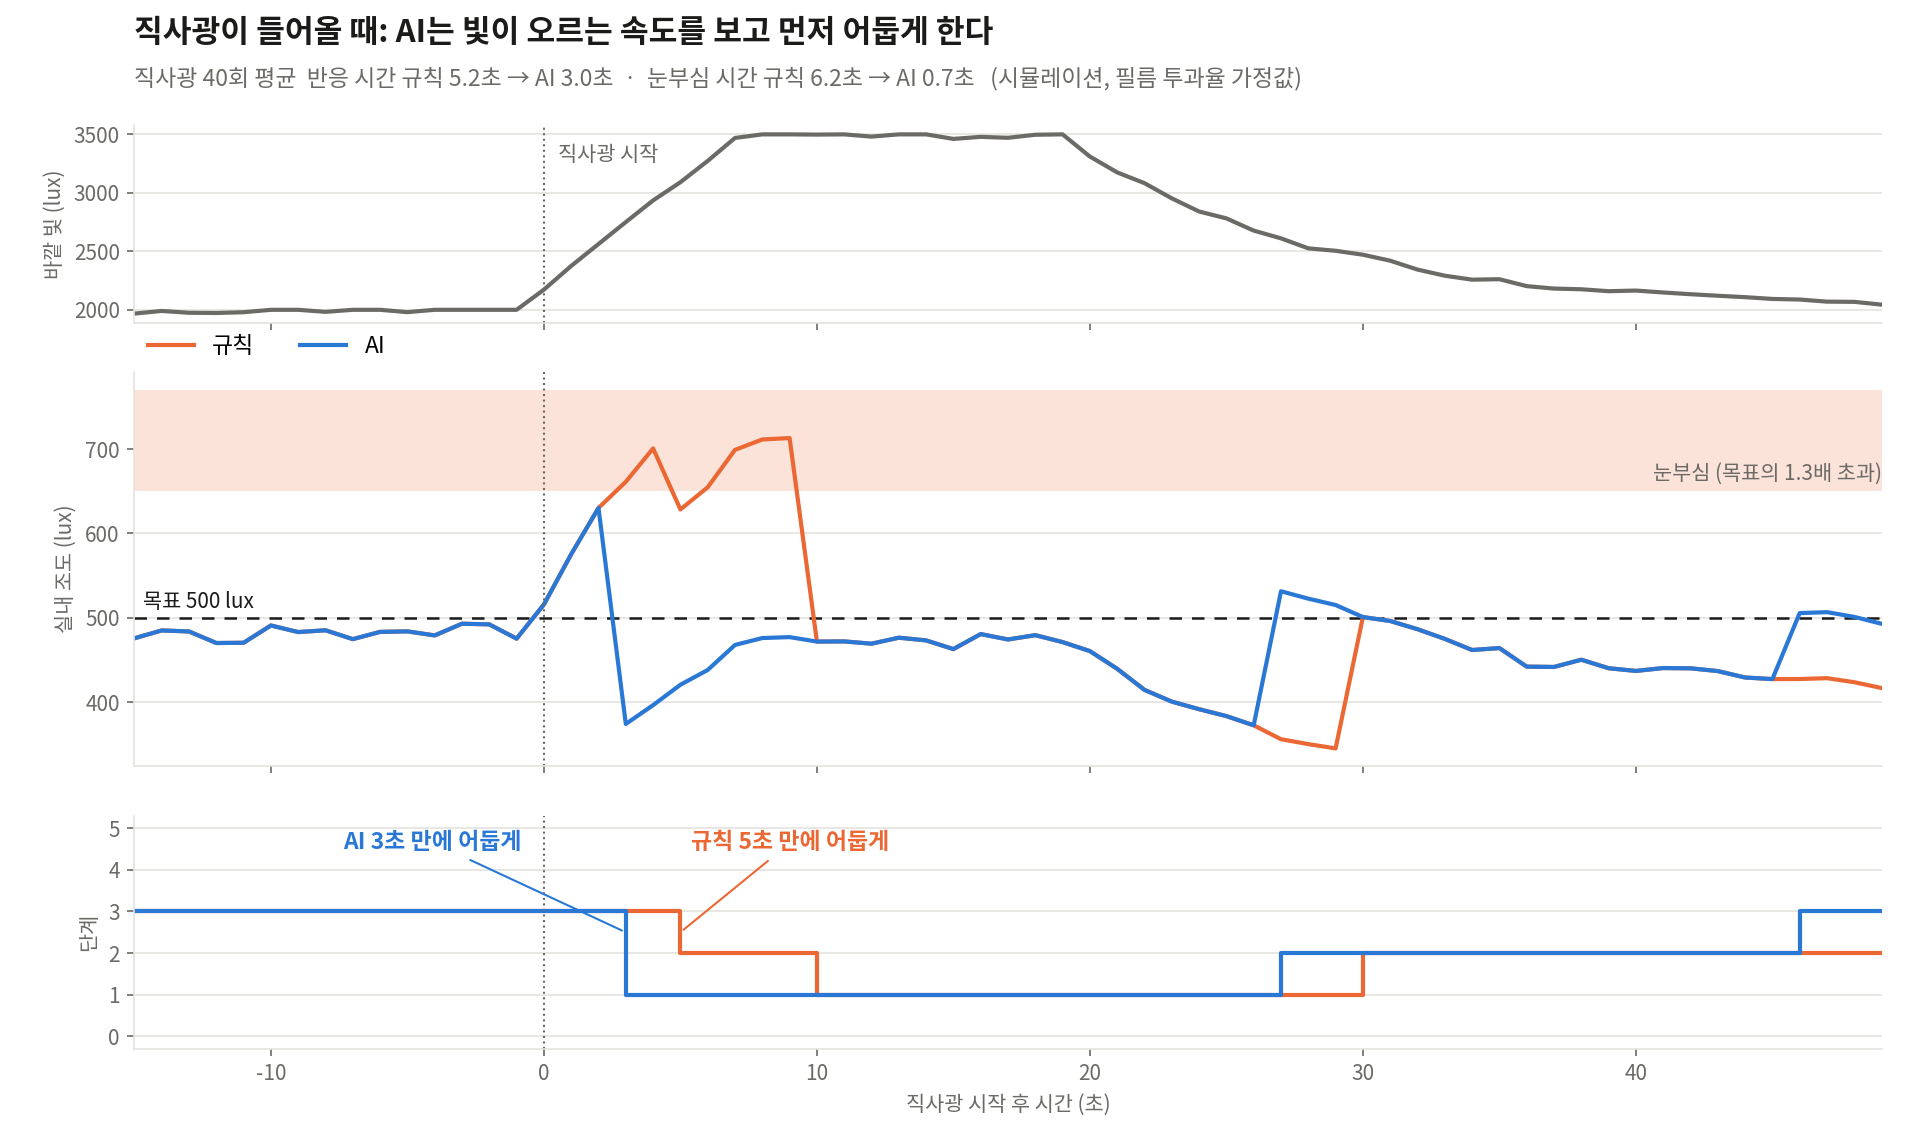
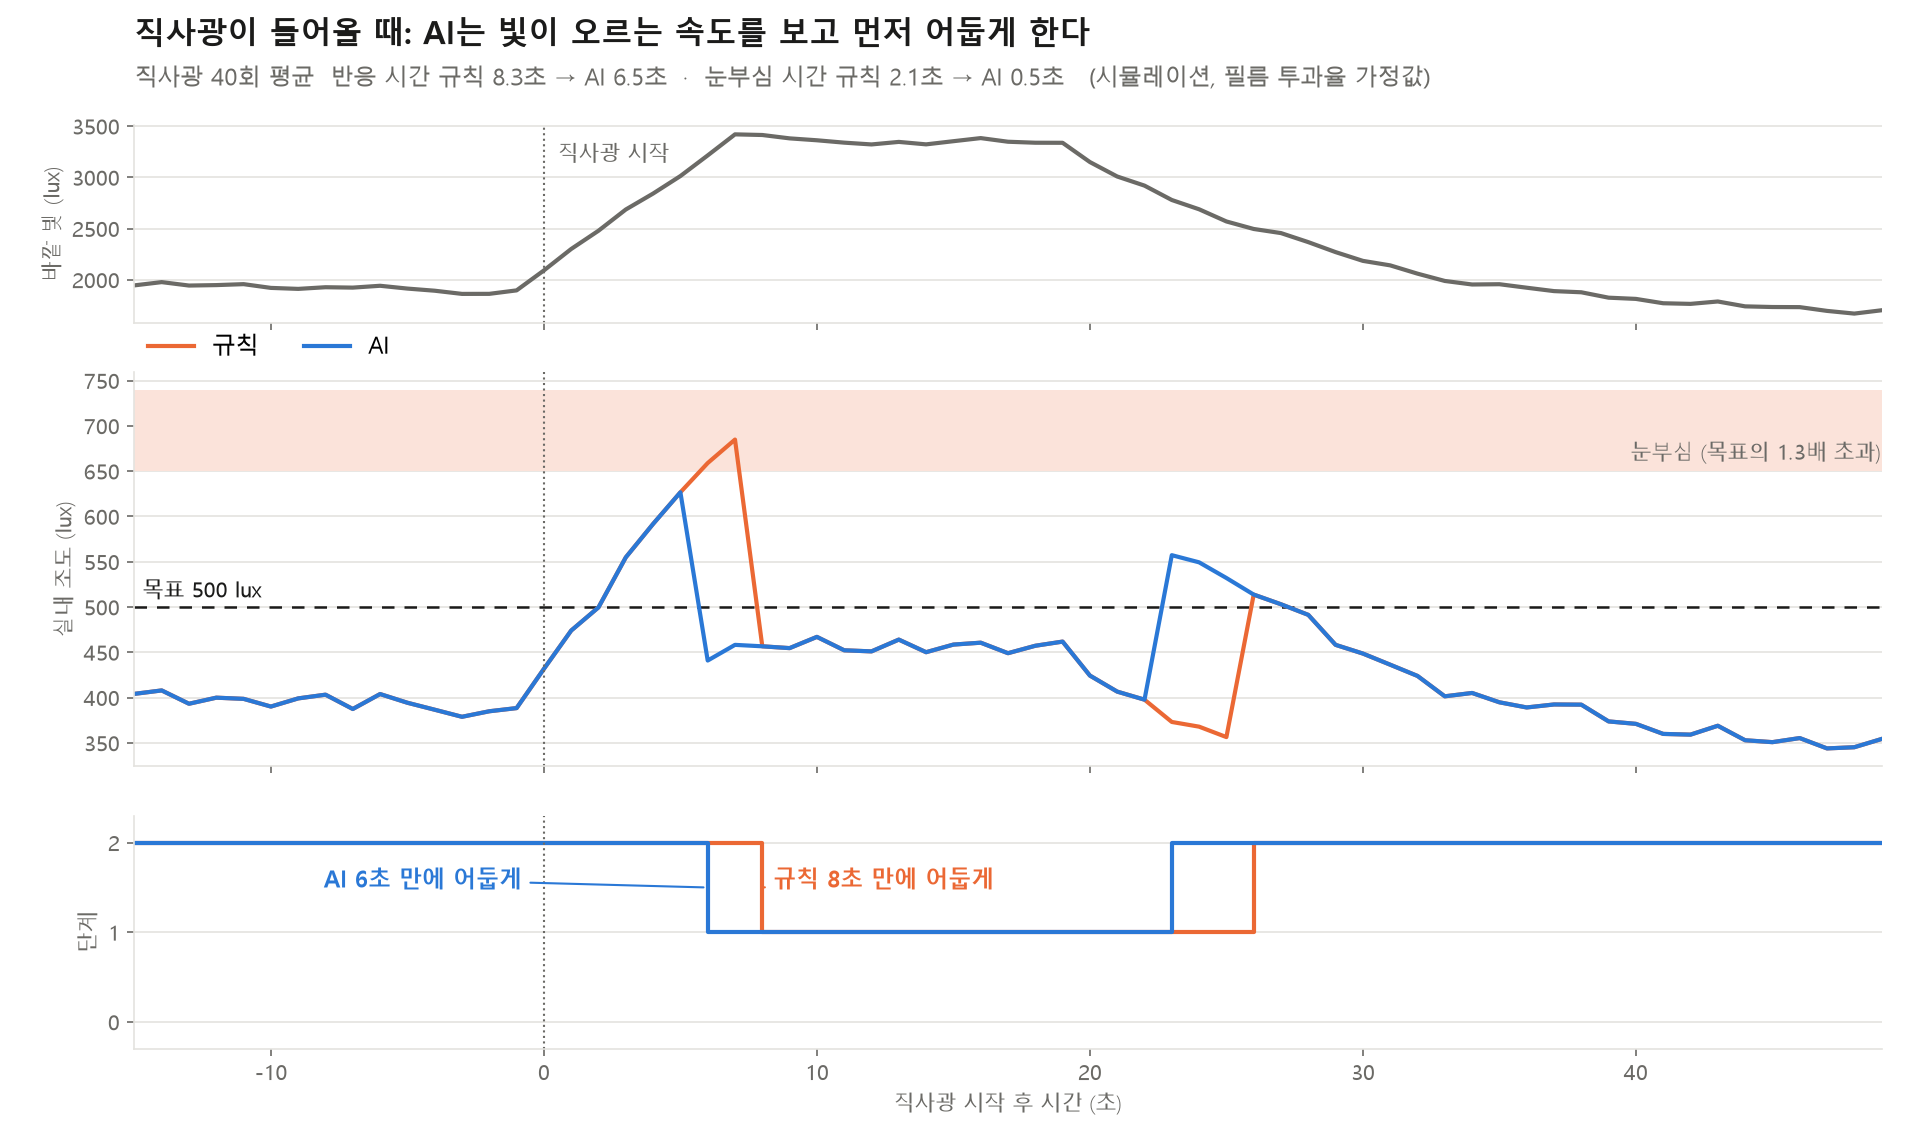
[pi] 3단계 결과·그래프 반영 및 6단계 결과 트러블슈팅 보관
- README 정량 평가·모델 시험 결과를 3단계 기준으로 교체, 선호 보정은 6단계 기준 명시
- docs/images 비교 그래프 3단계로 재생성 (선호 보정 그래프는 3단계에서 효과 없어 제거)
- 트러블슈팅 문서에 6단계·3단계 직사광·모델 시험·선호 보정 비교 추가
- plot_compare 단계 축을 NUM_LEVELS에 맞춤, 대표 장면을 평균에 가까운 seed로
- 안전 점검표에 단권 변압기·누전차단기·두 선 차단 확인 추가
- tools/metrics.py, validate_csv.py 기본 단계 수를 LIGHTQ_LEVELS에 맞춤

diff --git a/tools/metrics.py b/tools/metrics.py
@@ -1,5 +1,5 @@
 """docs 사양에 맞춘 하드웨어/알고리즘 정량지표 계산 스크립트.
-pi/config.py 기준 (6단계 제어, 시간대별 목표 조도).
+pi/config.py 기준 (단계 수는 LIGHTQ_LEVELS를 따름, 기본 3단계. 시간대별 목표 조도).
 
 정량지표 항목:
     1. 정확도 (Accuracy): 도달 조도가 해당 시간대(또는 단계) 목표 조도 ±tolerance% 범위 내에 들어온 비율
@@ -39,9 +39,10 @@ except ImportError:
 
 def get_default_config():
     """pi/config.py 임포트 실패 시 사용할 기본 규격."""
+    six = os.environ.get("LIGHTQ_LEVELS", "").strip() == "6"   # pi/calib.py와 같은 규칙 (기본 3)
     return {
-        "NUM_LEVELS": 6,
-        "LUT_T": [0.06, 0.17, 0.36, 0.47, 0.70, 1.00],
+        "NUM_LEVELS": 6 if six else 3,
+        "LUT_T": [0.14, 0.21, 0.32, 0.38, 0.56, 1.00] if six else [0.44, 0.67, 1.00],
         "LUT_SOURCE": "default",
         "DEFAULT_WAKE_TIME": "07:30",
         "WAKE_END_HOUR": 9.0,
@@ -83,7 +84,7 @@ def resolve_target_lux(df: pd.DataFrame, target_lux_map: dict = None) -> pd.Seri
     
     1. 사용자가 명시한 target_lux_map 이 있으면 우선 적용
     2. CSV에 hour 컬럼이 있으면 pi/config.py 시간대별 목표 적용
-    3. 그 외의 경우 6단계 기본 레벨 매핑 적용
+    3. 그 외의 경우 단계별 기본 목표 매핑 적용 (3단계: 0 차광, 1 아침, 2 주간)
     """
     if target_lux_map is not None:
         return df["level"].map(target_lux_map)
@@ -93,8 +94,12 @@ def resolve_target_lux(df: pd.DataFrame, target_lux_map: dict = None) -> pd.Seri
         hours = df["hour"].dropna().astype(float)
         return hours.apply(get_target_lux_for_hour)
 
-    # 레벨 기반 fallback (6단계 기준)
-    fallback_map = {0: 5.0, 1: 50.0, 2: 150.0, 3: 300.0, 4: 500.0, 5: 800.0}
+    # 레벨 기반 fallback
+    num_levels = int(config.NUM_LEVELS) if config is not None else get_default_config()["NUM_LEVELS"]
+    if num_levels == 6:
+        fallback_map = {0: 5.0, 1: 50.0, 2: 150.0, 3: 300.0, 4: 500.0, 5: 800.0}
+    else:
+        fallback_map = {0: 5.0, 1: 200.0, 2: 500.0}
     return df["level"].map(fallback_map)
 
 
@@ -107,7 +112,7 @@ def calculate_metrics(
     max_latency_window_ms: float = 15000.0,
     verbose: bool = True,
 ):
-    """로그 CSV 분석 및 정량지표 자동 계산 (pi/config.py 6단계 기준).
+    """로그 CSV 분석 및 정량지표 자동 계산 (pi/config.py 기준).
 
     :param csv_path: 로그 CSV 경로
     :param target_lux_map: level별 목표 조도 매핑 dict (None일 경우 config 시간대별 목표 적용)
@@ -222,7 +227,7 @@ def calculate_metrics(
         print("                 하드웨어 성능 평가 결과              ")
         print("=" * 60)
         print(f"분석 파일 경로     : {csv_path}")
-        print(f"설정 기준          : pi/config.py (6단계)")
+        print(f"설정 기준          : pi/config.py ({num_levels}단계)")
         print(f"LUT 출처           : {lut_source}")
         print(f"제어 단계 기준     : {num_levels}단계 (0 ~ {num_levels - 1})")
         print(f"투과율 LUT (ratio) : {lut_t}")

diff --git a/pi/ai/plot_compare.py b/pi/ai/plot_compare.py
@@ -16,6 +16,7 @@ matplotlib.use("Agg")
 import matplotlib.pyplot as plt  # noqa: E402
 from matplotlib import font_manager  # noqa: E402
 
+from pi import config  # noqa: E402
 from pi.ai.evaluate import compare  # noqa: E402
 from pi.ai.offline import run_scene  # noqa: E402
 from pi.ai.policy import AIPolicy  # noqa: E402
@@ -96,14 +97,15 @@ def plot_burst(out: str, seed: int, n_avg: int) -> None:
     ax2.step(t, [x["level"] for x in r], where="post", color=RULE, lw=2)
     ax2.step(t, [x["level"] for x in a], where="post", color=AI, lw=2)
     ax2.set_ylabel("단계")
-    ax2.set_yticks(range(0, 6))
-    ax2.set_ylim(-0.3, 5.3)
+    top = config.NUM_LEVELS - 1        # 3단계 모드 0~2, 6단계 모드 0~5
+    ax2.set_yticks(range(0, top + 1))
+    ax2.set_ylim(-0.3, top + 0.3)
     ax2.set_xlabel("직사광 시작 후 시간 (초)")
     dr, da = first_darker_at(r, b0), first_darker_at(a, b0)
     lv0 = r[b0]["level"]
     # AI 글자는 선 왼쪽, 규칙 글자는 선 오른쪽에 두어 겹치지 않게
     for d, c, name, tx, ha in ((da, AI, "AI", -0.8, "right"), (dr, RULE, "규칙", dr + 0.4, "left")):
-        ax2.annotate(f"{name} {d}초 만에 어둡게", xy=(d, lv0 - 0.5), xytext=(tx, 4.5),
+        ax2.annotate(f"{name} {d}초 만에 어둡게", xy=(d, lv0 - 0.5), xytext=(tx, top - 0.5),
                      color=c, fontsize=11, fontweight="bold", ha=ha,
                      arrowprops={"arrowstyle": "-", "color": c, "lw": 1})
 
@@ -163,7 +165,7 @@ def plot_metrics(out: str, days: int) -> None:
 def main() -> None:
     ap = argparse.ArgumentParser()
     ap.add_argument("--outdir", default="docs/images")
-    ap.add_argument("--seed", type=int, default=0, help="대표 장면 seed")
+    ap.add_argument("--seed", type=int, default=9, help="대표 장면 seed (3단계 기준 40회 평균에 가장 가까운 장면)")
     ap.add_argument("--bursts", type=int, default=40, help="직사광 평균에 쓸 횟수")
     ap.add_argument("--days", type=int, default=40)
     args = ap.parse_args()

diff --git a/tools/validate_csv.py b/tools/validate_csv.py
@@ -1,18 +1,20 @@
 """수집한 로그 CSV(ms,hour,lux,level)를 점검한다. (표준 라이브러리만 사용)
 
 사용법:
-    python tools/validate_csv.py data/raw/log_xxx.csv [--levels 6]
+    python tools/validate_csv.py data/raw/log_xxx.csv [--levels 3]   (기본: LIGHTQ_LEVELS, 없으면 3)
 """
 import argparse
 import csv
+import os
 import statistics
 import sys
 
 
 def main():
-    ap = argparse.ArgumentParser(description="수집 로그 CSV 유효성 점검 (기본 6단계: 0~5)")
+    default_levels = 6 if os.environ.get("LIGHTQ_LEVELS", "").strip() == "6" else 3   # pi/calib.py와 같은 규칙
+    ap = argparse.ArgumentParser(description=f"수집 로그 CSV 유효성 점검 (기본 {default_levels}단계: 0~{default_levels - 1})")
     ap.add_argument("path", help="검증할 로그 CSV 파일 경로")
-    ap.add_argument("--levels", type=int, default=6, help="단계 수 (params.h 의 NUM_LEVELS, 기본값: 6)")
+    ap.add_argument("--levels", type=int, default=default_levels, help=f"단계 수 (pi/config.py 의 NUM_LEVELS, 기본값: {default_levels})")
     args = ap.parse_args()
 
     problems, rows = [], []

diff --git a/pi/tests/test_levels.py b/pi/tests/test_levels.py
@@ -1,7 +1,7 @@
 """단계 전환 안전 순서 테스트.
 
 가장 중요한 규칙: 전압 선택 릴레이(S)가 바뀌는 순간, 그 필름의 전원 릴레이(P)는 꺼져 있어야 한다.
-모든 단계 → 모든 단계 전환(6 × 6 = 36가지)을 확인한다.
+모든 단계 → 모든 단계 전환(3단계 3 × 3 = 9가지, 6단계 6 × 6 = 36가지)을 확인한다.
 대현의 levels.py가 들어오면 loop.py가 그쪽을 쓰므로 같은 테스트로 검증된다.
 """
 import itertools

diff --git a/docs/troubleshooting-6-to-3-levels.md b/docs/troubleshooting-6-to-3-levels.md
@@ -77,6 +77,8 @@
 | `pi/devices/sim.py` | 가장 밝은 단계의 절대 투과율을 단계표에서 계산 |
 | `pi/tools/calibrate.py`, `check_relays.py` | 단계 수와 안내 문구가 모드를 따름 |
 | `pi/ai/policy.py` | 모델이 내는 단계를 현재 단계 수 안으로 묶음(재학습 전 안전장치) |
+| `pi/ai/plot_compare.py` | 그래프의 단계 축이 단계 수를 따름 |
+| `tools/metrics.py`, `validate_csv.py` | 기본 단계 수가 모드를 따름 |
 | `pi/data/ai_tree.json` | 3단계로 다시 학습 |
 | `pi/data/ai_tree_6level.json` | 6단계 때 학습한 모델 보관 |
 
@@ -100,8 +102,25 @@
 | 전환 횟수/일 | 7.1 | 6.6 | 3.4 | 3.5 |
 | 반응 지연(초) | 4.72 | 4.04 | 9.38 | 6.86 |
 
+직사광 한 번(1배속, 40회 평균, `python -m pi.ai.plot_compare`)과 모델 시험(`python -m pi.ai.train`) 결과:
+
+| 지표 | 6단계 규칙 | 6단계 AI | 3단계 규칙 | 3단계 AI |
+|---|---|---|---|---|
+| 어둡게 바꿀 때까지(초) | 5.2 | 3.0 | 8.3 | 6.5 |
+| 눈부심 시간(초) | 6.2 | 0.7 | 2.1 | 0.5 |
+| 모델 시험 정확도, 전체 | 77.5% | 85.0% | 94.5% | 96.6% |
+| 모델 시험 정확도, 빛이 오르는 구간 | 50.1% | 71.0% | 81.8% | 90.1% |
+
+개인 선호 보정(`python -m pi.ai.eval_preference`, 가상 사용자 3명 × 2주):
+
+| 지표 (마지막 7일 평균) | 6단계 학습 없음 | 6단계 선호 보정 | 3단계 학습 없음 | 3단계 선호 보정 |
+|---|---|---|---|---|
+| 하루 수동 조작 횟수 | 2.24 | 0.44 | 0 | 0 |
+| 배운 주간 목표 (밝게 / 기본 근처 / 어둡게) | 500 / 500 / 500 | 630 / 504 / 376 | 500 / 500 / 500 | 500 / 500 / 500 |
+
 - 두 구성 모두 AI가 규칙보다 정확도, 눈부심, 반응 지연에서 낫습니다.
 - 3단계는 가장 밝은 상태가 어두워서 시뮬레이션의 목표 조도(주간 500 lux)에 자주 못 미칩니다. 그래서 정확도가 낮고 눈부심이 적습니다. 두 구성의 숫자를 그대로 비교하면 안 되고, 실측 후 목표 조도를 실제 밝기 범위에 맞추면 바뀝니다.
+- 3단계에서는 개인 선호 보정의 효과가 시뮬레이션에서 나오지 않습니다. 한낮에도 실내가 약 330~490 lux(바깥 1600~2400 lux × 0.2025)라, 밝게 원하는 사용자는 이미 가장 밝은 단계여서 조작할 수 없고, 어둡게 원하는 사용자(380 lux)는 지금 밝기가 25% 안이라 조작하지 않습니다. 알고리즘 문제가 아니라 밝기 범위와 목표가 안 맞는 문제라서, 실측 후 목표 조도를 맞추면 다시 검증합니다.
 - 3단계에서 반응 지연이 길게 나온 것은 단계 사이 간격이 넓어 한 번 바꿀 때 밝기 변화가 크기 때문으로 보입니다(추정, 실측으로 확인 필요).
 
 6단계 때 만든 비교 그래프:
@@ -112,7 +131,7 @@
 
 ![6단계 개인 선호 보정](archive/six-level/preference_learning.png)
 
-`docs/images/`의 그래프는 3단계 실측 후 `python -m pi.ai.plot_compare`로 다시 만듭니다.
+`docs/images/`의 비교 그래프는 3단계 가정값 기준으로 다시 만들었습니다. 3단계 선호 보정 그래프는 효과가 없어 올리지 않았고, 실측 후 다시 만듭니다.
 
 ## 7. 배운 점
 

diff --git a/hardware/safety_checklist.md b/hardware/safety_checklist.md
@@ -4,10 +4,14 @@ PDLC 필름은 수십~백 볼트대 교류로 구동한다. 감전과 화재 위
 
 - [ ] 지도교수님 또는 전기 지식이 있는 분이 배선을 확인했다 (이름/날짜 기록)
 - [ ] 완제품 드라이버/변압기를 사용한다 (직접 만든 승압 회로 사용 금지)
-- [ ] 드라이버 출력 전압/용량이 필름 사양(구동전압 60~110V, 면적)과 맞는다 — 확인 필요
+- [ ] 드라이버 출력 전압/용량이 필름 사양(업체 안내 구동전압 AC 60~70V, 면적)과 맞는다. 3단계 모드는 T2(약 45V)만 필름에 연결한다
+- [ ] T1 출력(100V)이 필름에 직접 연결되지 않았다 (3단계 모드에서 T1은 T2 입력 전용)
+- [ ] 변압기가 단권(입출력 비절연)인지 복권인지 멀티미터 저항 모드로 확인했다. 단권이면 변압기 뒤 모든 선을 220V와 같이 취급한다
+- [ ] 변압기 플러그를 누전차단기가 있는 콘센트·멀티탭에 꽂는다 (단권 변압기면 필수)
 - [ ] 파형이 필름에 맞다 (README의 트라이악 위상제어 비권장 결론 준수) — 확인 필요
 - [ ] 릴레이 접점의 교류 정격이 부하 전압/전류보다 충분히 크다 — 확인 필요
-- [ ] 탭 전환 방식이면 여러 탭이 동시에 연결될 수 없다 (전부 끄고 대기 후 켜기, 가능하면 하드웨어 인터락)
+- [ ] 꺼진 필름은 두 선이 모두 전원에서 끊긴다: 3단계 모드에서 PA·PA2(PB·PB2)를 끈 상태로 필름 단자 두 곳 모두 전압이 없는지 멀티미터로 확인했다
+- [ ] (6단계 모드) 탭 전환 방식이면 여러 탭이 동시에 연결될 수 없다 (전부 끄고 대기 후 켜기, 가능하면 하드웨어 인터락)
 - [ ] 퓨즈 또는 차단기가 입력 쪽에 있다
 - [ ] 전선 접속부는 절연 처리(커넥터/수축튜브)되어 있고 노출된 도체가 없다
 - [ ] 고전압 부분은 케이스 안에 있고 사용자가 손댈 수 없다
